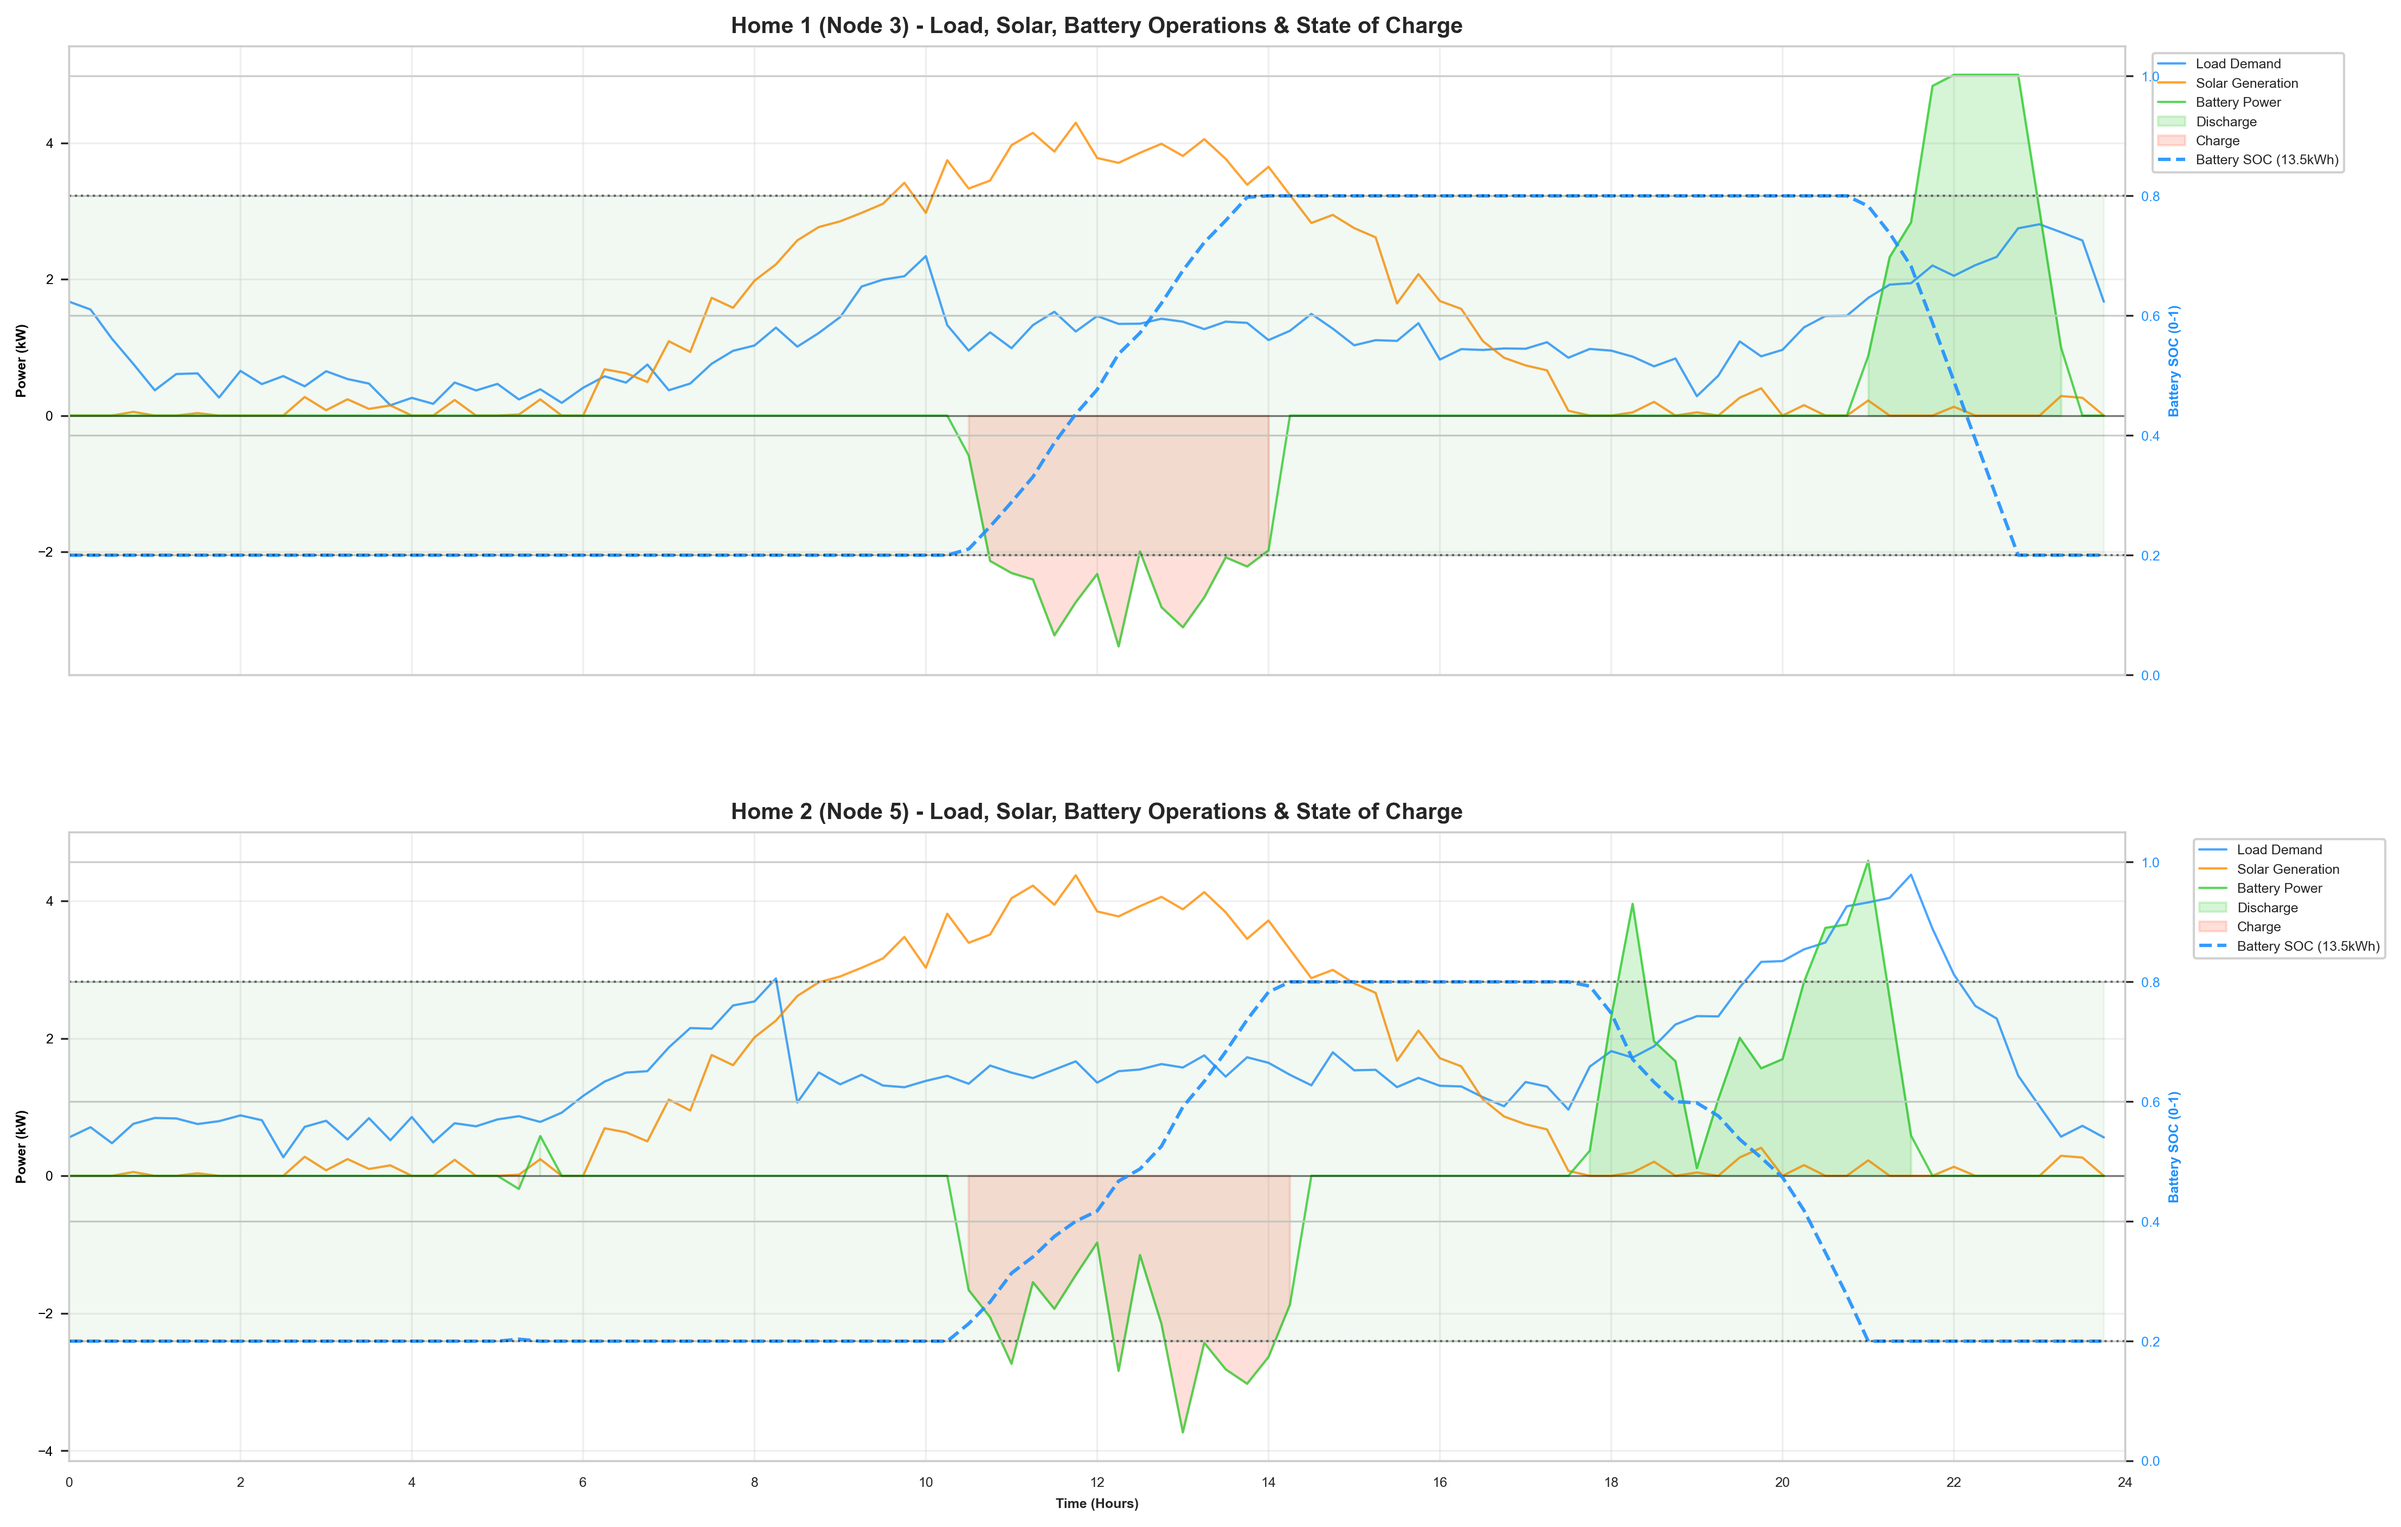
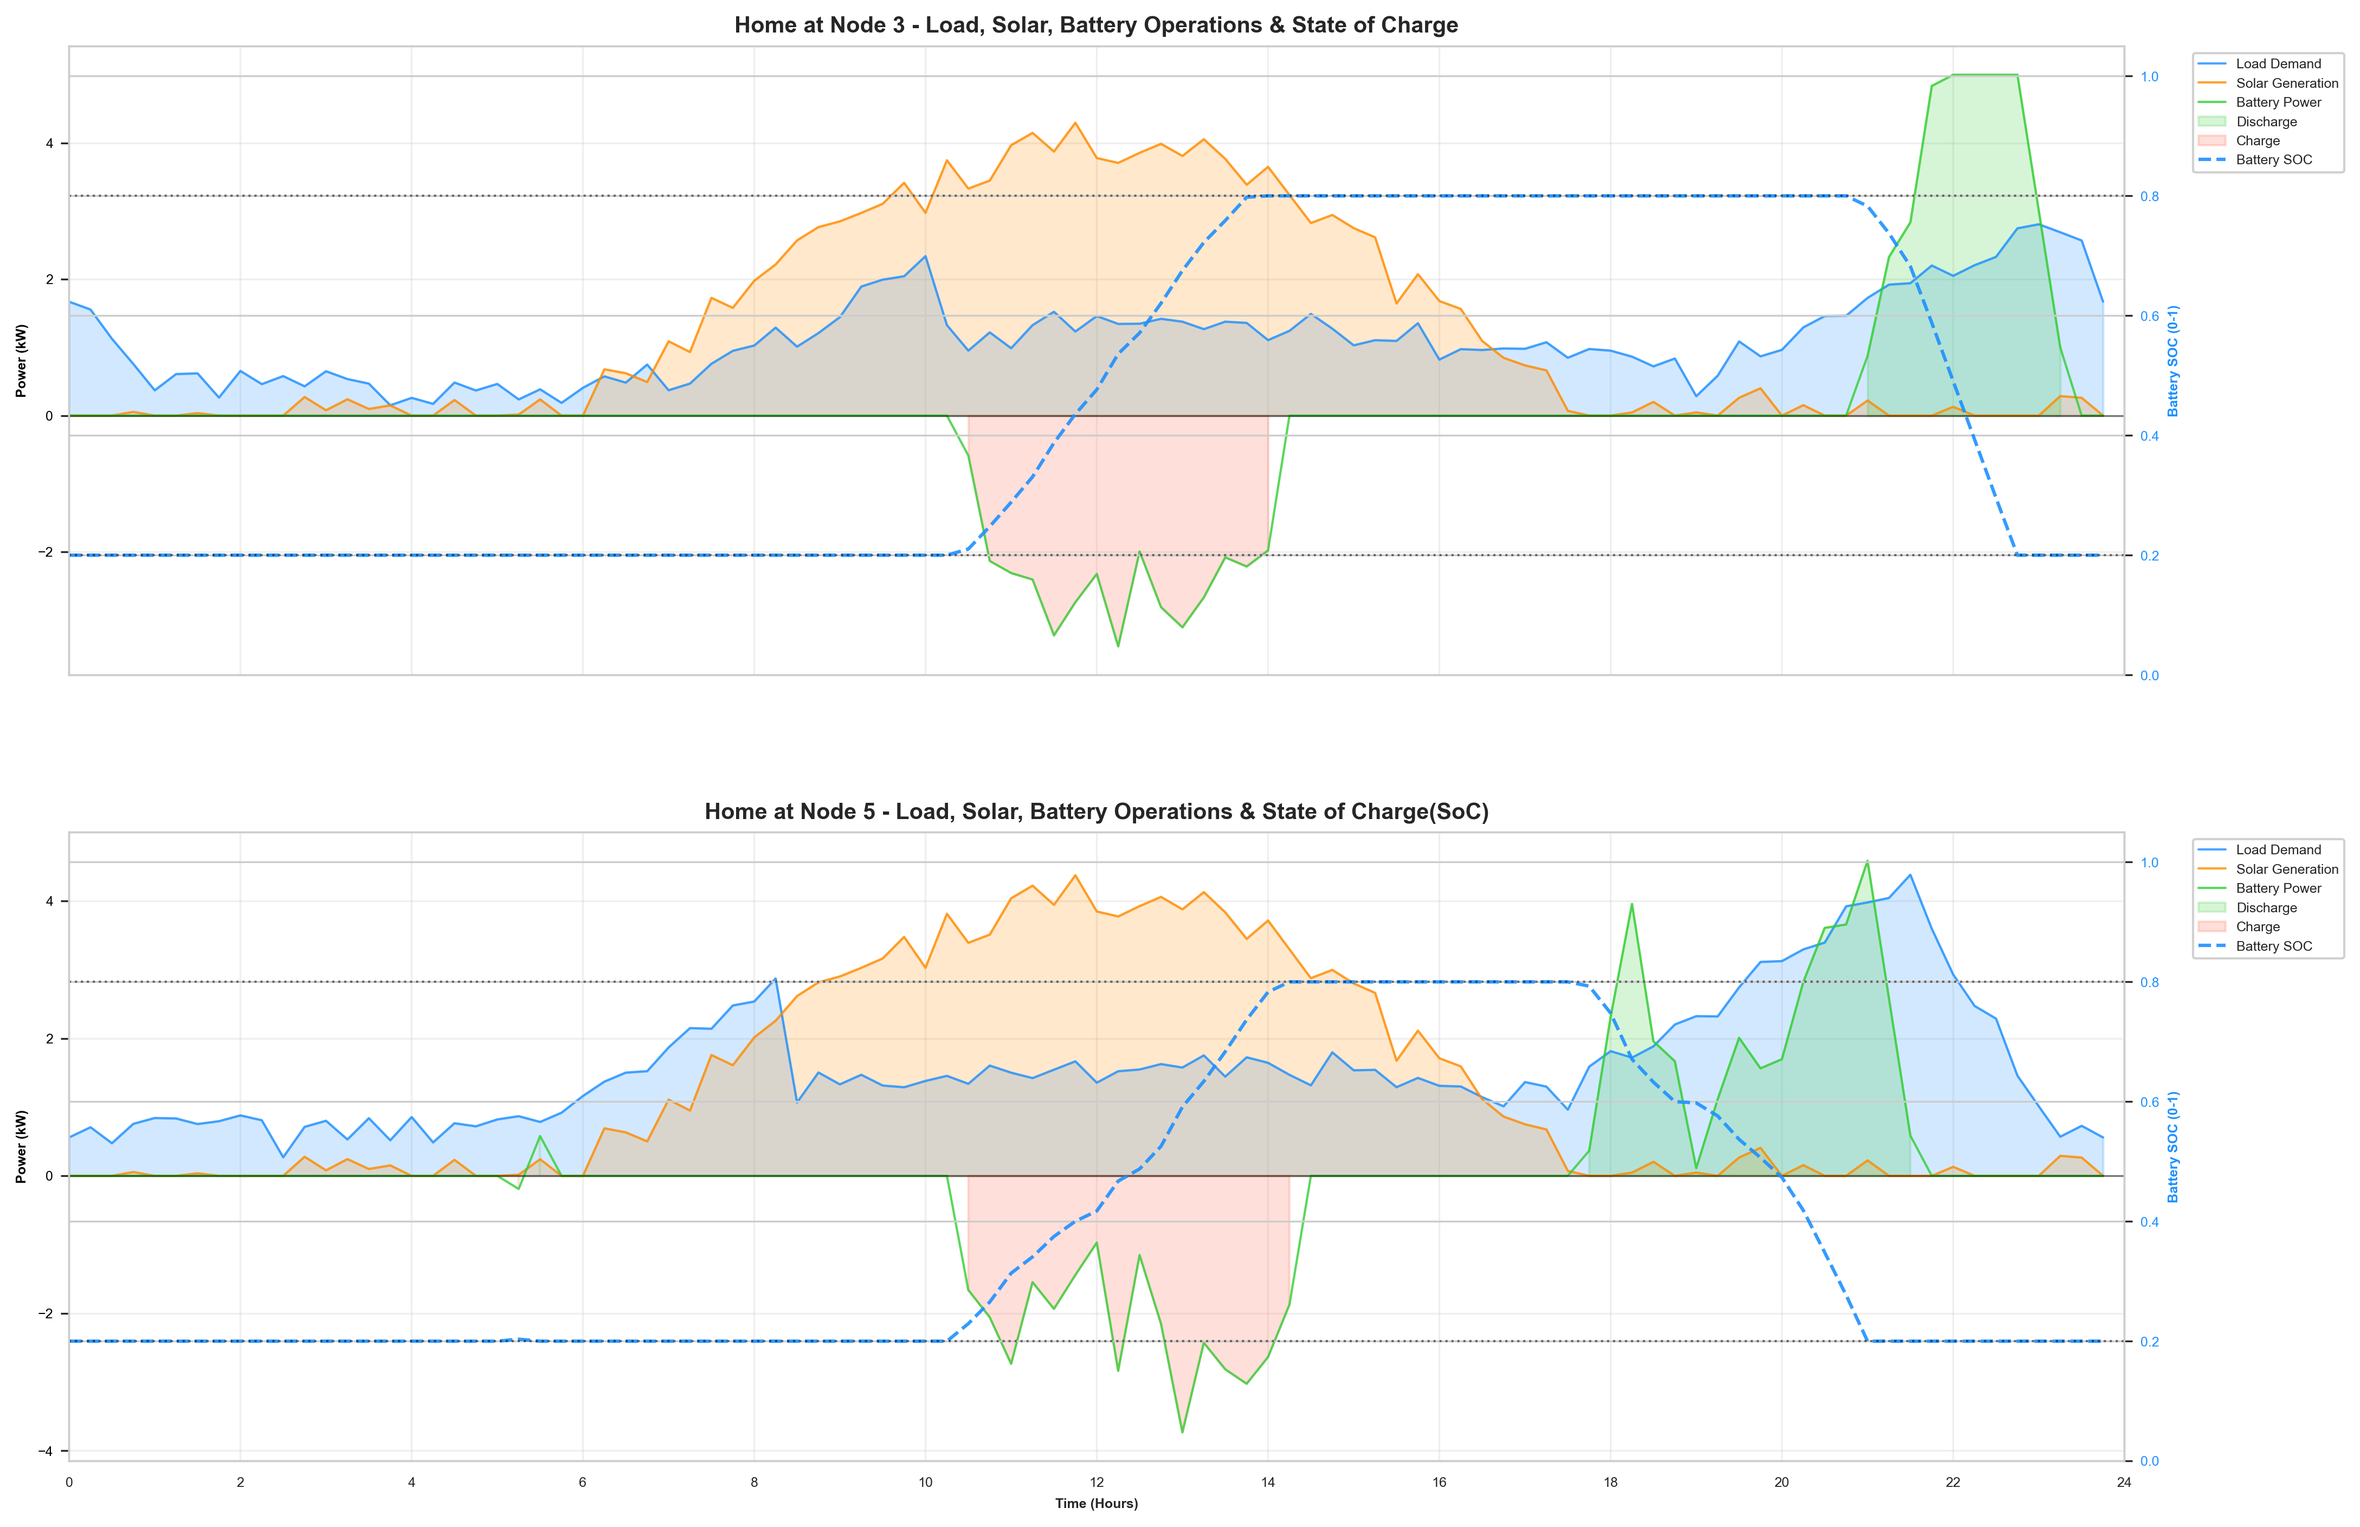
update scenarios

diff --git a/RL_agent/plot_results.py b/RL_agent/plot_results.py
@@ -263,6 +263,8 @@ axes[0].set_title(f"Home at Node {HOME_BATTERY_INDICES[0]} - Load, Solar, Batter
 # Left y-axis: Power flows
 axes[0].plot(time_axis, history["hb1_load"], color='#1E90FF', linewidth=1, label='Load Demand', alpha=0.8)
 axes[0].plot(time_axis, history["hb1_solar"], color='#FF8C00', linewidth=1, label='Solar Generation', alpha=0.8)
+axes[0].fill_between(time_axis, 0, history["hb1_load"], color='#1E90FF', alpha=0.2)
+axes[0].fill_between(time_axis, 0, history["hb1_solar"], color='#FF8C00', alpha=0.2)
 axes[0].plot(time_axis, history["hb1_power"], color='#32CD32', linewidth=1, label='Battery Power', alpha=0.8)
 axes[0].fill_between(time_axis, 0, history["hb1_power"], where=np.array(history["hb1_power"])>0, color='#32CD32', alpha=0.2, label='Discharge')
 axes[0].fill_between(time_axis, 0, history["hb1_power"], where=np.array(history["hb1_power"])<0, color='#FF6347', alpha=0.2, label='Charge')
@@ -274,7 +276,7 @@ ax0_right = axes[0].twinx()
 ax0_right.plot(time_axis, history["soc_hb1"], color='#1E90FF', linewidth=1.5, linestyle='--', label='Battery SOC', alpha=0.9)
 ax0_right.axhline(y=0.8, color='black', linestyle=':', linewidth=1, alpha=0.5)
 ax0_right.axhline(y=0.2, color='black', linestyle=':', linewidth=1, alpha=0.5)
-ax0_right.fill_between(time_axis, 0.2, 0.8, color='green', alpha=0.05)
+#ax0_right.fill_between(time_axis, 0.2, 0.8, color='green', alpha=0.05)
 ax0_right.set_ylabel("Battery SOC (0-1)", fontweight='bold', color='#1E90FF')
 ax0_right.tick_params(axis='y', labelcolor='#1E90FF')
 ax0_right.set_ylim(0, 1.05)
@@ -289,6 +291,8 @@ axes[1].set_title(f"Home at Node {HOME_BATTERY_INDICES[1]} - Load, Solar, Batter
 # Left y-axis: Power flows
 axes[1].plot(time_axis, history["hb2_load"], color='#1E90FF', linewidth=1, label='Load Demand', alpha=0.8)
 axes[1].plot(time_axis, history["hb2_solar"], color='#FF8C00', linewidth=1, label='Solar Generation', alpha=0.8)
+axes[1].fill_between(time_axis, 0, history["hb2_load"], color='#1E90FF', alpha=0.2)
+axes[1].fill_between(time_axis, 0, history["hb2_solar"], color='#FF8C00', alpha=0.2)
 axes[1].plot(time_axis, history["hb2_power"], color='#32CD32', linewidth=1, label='Battery Power', alpha=0.8)
 axes[1].fill_between(time_axis, 0, history["hb2_power"], where=np.array(history["hb2_power"])>0, color='#32CD32', alpha=0.2, label='Discharge')
 axes[1].fill_between(time_axis, 0, history["hb2_power"], where=np.array(history["hb2_power"])<0, color='#FF6347', alpha=0.2, label='Charge')
@@ -301,7 +305,7 @@ ax1_right = axes[1].twinx()
 ax1_right.plot(time_axis, history["soc_hb2"], color='#1E90FF', linewidth=1.5, linestyle='--', label='Battery SOC', alpha=0.9)
 ax1_right.axhline(y=0.8, color='black', linestyle=':', linewidth=1, alpha=0.5)
 ax1_right.axhline(y=0.2, color='black', linestyle=':', linewidth=1, alpha=0.5)
-ax1_right.fill_between(time_axis, 0.2, 0.8, color='green', alpha=0.05)
+#ax1_right.fill_between(time_axis, 0.2, 0.8, color='green', alpha=0.05)
 ax1_right.set_ylabel("Battery SOC (0-1)", fontweight='bold', color='#1E90FF')
 ax1_right.tick_params(axis='y', labelcolor='#1E90FF')
 ax1_right.set_ylim(0, 1.05)

diff --git a/RL_agent/train.py b/RL_agent/train.py
@@ -26,19 +26,17 @@ def main():
 
     # === SCENARIO SELECTION ===
     # Available Scenarios:
-    #   "cloudy_reduced_solar"          : Solar reduced with variability
-    #   "daytime_peak_load_day"         : Extra midday load bump
-    #   "evening_peak_load_day"         : Extra evening load bump
-    #   "heatwave_day"                  : Higher daytime load + reduced solar
-    #   "intermittent_solar_dropouts"   : Random solar dropouts
-    #   "load_higher_day"               : All loads scaled up
-    #   "Next_Day_Forecast_21"         : Load dip 00:00-02:00
-    #   "solar_unavailable_day"         : Solar set to 0 all day
-    #   "weekend_low_load"              : All loads scaled down
+    #   "cloudy_day"               : Cloudy day with reduced solar
+    #   "daytime_peak"             : Extra midday load bump
+    #   "intermittent_solar"       : Random solar dropouts
+    #   "low_load_weekend"         : Lower loads (weekend scenario)
+    #   "Next_Day_Forecast_21_nodes" : Load dip 00:00-02:00 (21-node version)
+    #   "night_peak"               : Extra evening/night load bump
+    #   "solar_unavailable_day"    : Solar set to 0 all day
 
-    # Set to a scenario name (e.g., "heatwave_day") to train on that specific scenario.
+    # Set to a scenario name (e.g., "cloudy_day") to train on that specific scenario.
     # Set to None to use the default 'load_forecast.csv' and 'solar_forecast_formatted.csv'
-    scenario_name = "daytime_peak_load_day_21_nodes"  # Use 21-node version for 21-load system
+    scenario_name = "daytime_peak"  # Change to any scenario above
 
 
     
